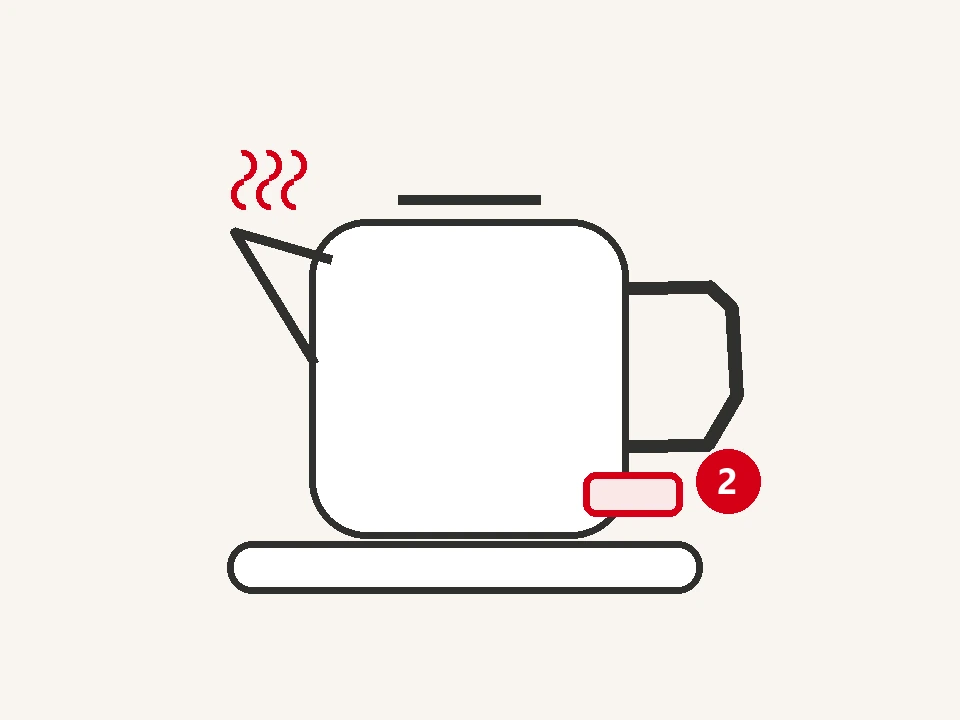
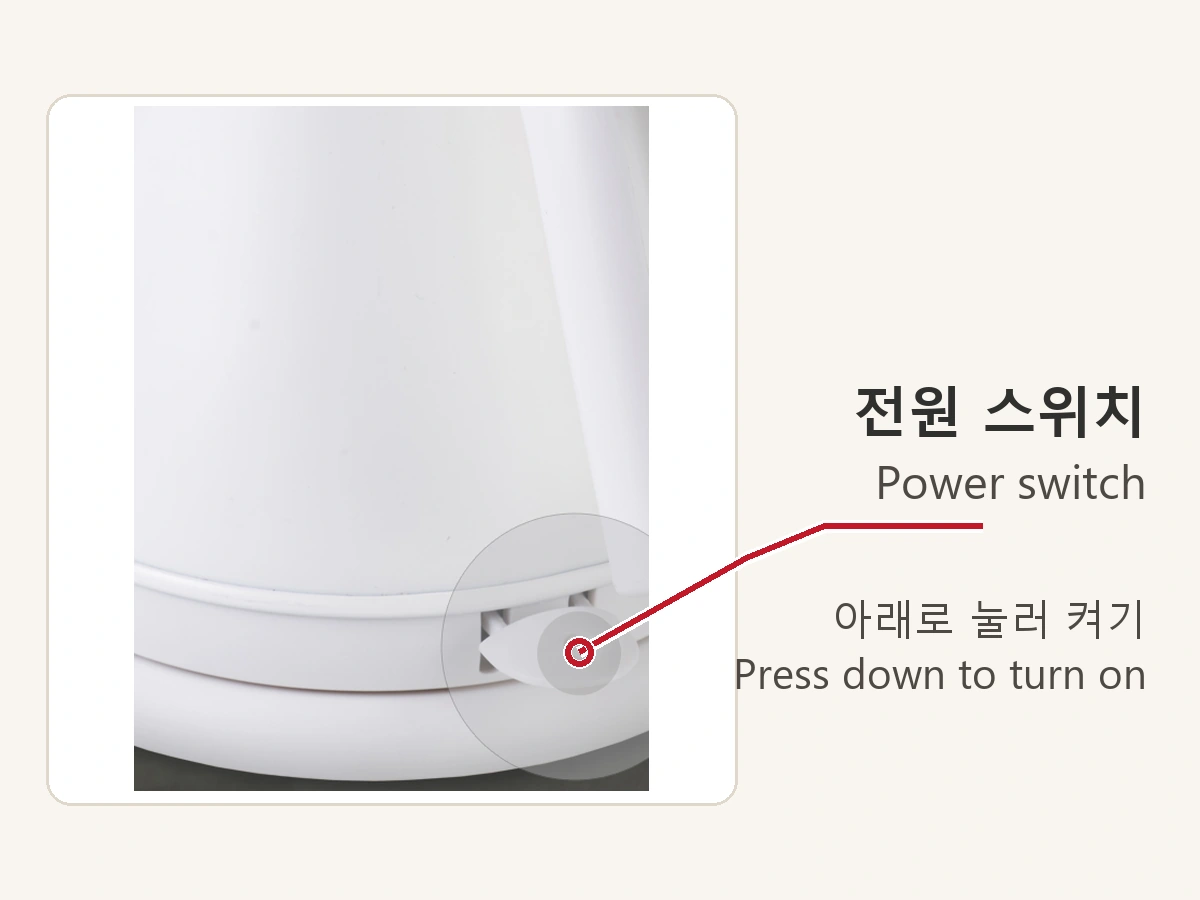
Label air conditioner, hood, speaker and kettle controls

Changed region(s): [[0.0938, 0.0917, 0.9688, 0.8861]]

diff --git a/assets/equipment.js b/assets/equipment.js
@@ -14,7 +14,8 @@ export const applianceItems = [
   {
     id:'cooling', area:'room',
     visuals:[
-      guide('ac',['전원 켜기 → 냉방 선택 → 온도 조절','Power on → Cool mode → Adjust temperature','電源 → 冷房 → 温度調節','开机 → 制冷 → 调节温度','開機 → 冷房 → 調節溫度'])
+      guide('ac-wall',['301호 벽면 조작부 · 전원과 온도','Room 301 wall control · Power and temperature','301号室の壁面操作部・電源と温度','301 号房墙面控制器 · 电源与温度','301 號房壁面控制器 · 電源與溫度']),
+      guide('ac',['삼성 리모컨 DB98-32905B-00 · 전원, 모드, 온도','Samsung remote DB98-32905B-00 · Power, mode and temperature','Samsungリモコン DB98-32905B-00・電源、モード、温度','三星遥控器 DB98-32905B-00 · 电源、模式与温度','三星遙控器 DB98-32905B-00 · 電源、模式與溫度'])
     ],
     title:['객실 에어컨','Room air conditioning','客室のエアコン','客房空调','客房冷氣'],
     photo:{ id:'guide-abode-room-controls', marks:[[6,44]], caption:['301호 실제 사진 · 거울 왼쪽 벽의 삼성 조작부','Room 301 · Samsung wall control to the left of the mirror','301号室の実物写真・鏡の左側のSamsung操作部','301 号房实拍 · 镜子左侧的三星墙面控制器','301 號房實拍 · 鏡子左側的三星壁面控制器'] },
@@ -56,7 +57,7 @@ export const applianceItems = [
   {
     id:'speaker', area:'room',
     visuals:[
-      guide('speaker',['스피커 전원 켜기 → 휴대전화 블루투스 연결','Turn the speaker on → Pair on your phone','電源を入れる → 携帯電話でペアリング','开启音箱 → 在手机上配对','開啟喇叭 → 在手機上配對']),
+      guide('speaker',['스피커 상단 버튼 · 전원, 재생, 모드','Top of the speaker · Power, playback and mode','スピーカー上面・電源、再生、モード','音箱顶部按钮 · 电源、播放与模式','喇叭頂部按鈕 · 電源、播放與模式']),
       guide('speaker-volume',['밤 9시 이후에는 음량을 낮춰 주세요.','Keep the volume low after 9 PM.','21時以降は音量を控えめにしてください。','晚上 9 点后请调低音量。','晚上 9 點後請調低音量。'])
     ],
     title:['블루투스 스피커','Bluetooth speaker','Bluetoothスピーカー','蓝牙音箱','藍牙喇叭'],
@@ -69,13 +70,14 @@ export const applianceItems = [
   {
     id:'cooktop', area:'kitchen',
     visuals:[
-      official('induction','Haatz IH-232S',['전원과 오른쪽 인덕션 화력 + / −','Power and the induction heat controls (+ / −) on the right','電源と右側のIH火力調節（+ / −）','电源与右侧火力调节（+ / −）','電源與右側火力調節（+ / −）'])
+      official('induction','Haatz IH-232S',['전원과 오른쪽 인덕션 화력 + / −','Power and the induction heat controls (+ / −) on the right','電源と右側のIH火力調節（+ / −）','电源与右侧火力调节（+ / −）','電源與右側火力調節（+ / −）']),
+      guide('hood',['301호 주방 후드 · 전면 터치 패널과 풍량 버튼','Room 301 range hood · Front touch panel and fan speed button','301号室のレンジフード・前面タッチパネルと風量ボタン','301 号房抽油烟机 · 正面触控面板与风速按钮','301 號房抽油煙機 · 正面觸控面板與風速按鈕'])
     ],
     title:['인덕션과 주방 후드','Induction cooktop and range hood','IH調理器とレンジフード','电磁炉与抽油烟机','電磁爐與抽油煙機'],
     model:'Haatz IH-232S · SIH-30S',
     photo:{ id:'guide-laundry', marks:[[32,56],[29,27]], caption:['301호 실제 사진 · 싱크대 오른쪽 검은 상판이 인덕션이고, 위의 스테인리스 기기가 후드입니다.','Room 301 · The black cooktop is to the right of the sink, with the stainless-steel hood above.','301号室の実物写真・流しの右の黒い面がIH、上のステンレス製の機器がフードです。','301 号房实拍 · 水槽右边的黑色台面是电磁炉，上方为不锈钢油烟机。','301 號房實拍 · 水槽右側的黑色檯面是電磁爐，上方為不鏽鋼抽油煙機。'] },
     controls:[
-      ['FAN', ['조리하기 전에 상판 위 주방 후드를 켜세요. 인덕션용 냄비나 팬을 화구 가운데에 놓으세요.', 'Turn on the hood above the cooktop before cooking. Centre an induction-compatible pan on the cooking zone.', '調理前にフードを回し、IH対応の鍋を加熱部の中央に置きます。', '先开启上方的抽油烟机，再把电磁炉适用的锅放在炉区中央。', '先開啟上方的抽油煙機，再把電磁爐適用的鍋放在爐區中央。']],
+      ['FAN', ['조리 전에 후드의 팬 모양 버튼을 터치해 풍량을 1~3단으로 조절하세요. 인덕션용 냄비나 팬은 화구 가운데에 놓으세요.', 'Before cooking, tap the fan symbol on the hood to select speed 1, 2 or 3. Centre an induction-compatible pan on the cooking zone.', '調理前にフードのファンマークをタッチし、風量を1〜3段階で調節します。IH対応の鍋は加熱部の中央に置きます。', '烹饪前，触按油烟机上的风扇图标，将风速调至 1 至 3 档。将电磁炉适用的锅放在炉区中央。', '烹調前，觸按抽油煙機上的風扇圖示，將風速調至 1 至 3 檔。將電磁爐適用的鍋放在爐區中央。']],
       ['⏻ → INDUCTION + / −', ['전원 버튼을 약 1초간 누른 뒤 오른쪽 Induction + / −로 화력을 조절하세요. 왼쪽 Timer는 작동 시간 설정에 사용합니다.', 'Hold Power for about one second, then use the Induction + / − buttons on the right to adjust the heat. The Timer on the left sets the cooking time.', '電源を約1秒押し、右側のInduction + / −で火力を調節します。左側のTimerは時間設定用です。', '按住电源键约 1 秒，再用右侧 Induction + / − 调节火力。左侧 Timer 用于设置时间。', '按住電源鍵約 1 秒，再用右側 Induction + / − 調整火力。左側 Timer 用於設定時間。']],
       ['H', ['조리를 마치면 전원을 끄세요. H가 표시되면 상판이 아직 뜨거우니 손대지 마세요.', 'Switch off after cooking. The H indicator means the glass is still hot. Keep your hands off it.', '調理後は電源を切ります。Hの表示中は天板が熱いため触れないでください。', '烹饪后请关闭电源。显示 H 表示台面仍热，请勿触摸。', '烹調後請關閉電源。顯示 H 代表檯面仍熱，請勿觸摸。']],
     ],
@@ -124,14 +126,14 @@ export const applianceItems = [
   {
     id:'kettle', area:'kitchen',
     visuals:[
-      guide('kettle-fill',['물을 MAX 선 아래까지 채우세요.','Fill with water below the MAX line.','MAX線を超えないよう水を入れます。','加水至 MAX 线以下。','加水至 MAX 線以下。']),
-      guide('kettle-switch',['받침에 올리고 전원을 켜세요.','Set the kettle on its base and switch it on.','台に戻してスイッチを入れます。','将水壶放回底座再开机。','將水壺放回底座再開機。'])
+      guide('kettle-switch',['손잡이 아래 전원 스위치를 아래로 누르세요.','Press down on the power switch below the handle.','持ち手の下にある電源スイッチを押し下げます。','向下按手柄下方的电源开关。','將手把下方的電源開關往下按。']),
+      guide('kettle-fill',['물을 MAX 선 아래까지 채우세요.','Fill with water below the MAX line.','MAX線を超えないよう水を入れます。','加水至 MAX 线以下。','加水至 MAX 線以下。'])
     ],
     title:['전기포트','Electric kettle','電気ケトル','电热水壶','電熱水壺'],
     model:'OLLY OLK05B / OLK05W',
     controls:[
       ['WATER · MAX', ['포트를 받침에서 들어 물만 넣고 MAX 표시를 넘기지 마세요. 뚜껑을 닫은 뒤 받침에 올리세요.', 'Lift the kettle off the base and fill with water only, below MAX. Close the lid and set it back on the base.', 'ケトルを台から外し、MAXを超えないよう水だけを入れます。ふたを閉めて台に戻します。', '把水壶从底座取下，只加水且不得超过 MAX 线。合盖后放回底座。', '將水壺從底座取下，只加水且勿超過 MAX 線。蓋好後放回底座。']],
-      [power, ['전원 스위치를 켜세요. 끓인 뒤에는 손잡이로 들고, 주둥이의 증기에 주의하세요.', 'Switch the kettle on. When pouring, use the handle and keep clear of steam from the spout.', 'スイッチを入れます。注ぐ際は持ち手を使い、注ぎ口の蒸気に注意してください。', '打开电源开关。倒水时握住把手，小心壶嘴蒸气。', '開啟電源開關。倒水時握住把手，小心壺嘴蒸氣。']],
+      [power, ['손잡이 아래의 스위치를 아래로 눌러 켜세요. 끓인 뒤에는 손잡이로 들고, 주둥이의 증기에 주의하세요.', 'Press the switch below the handle down to turn it on. When pouring, use the handle and keep clear of steam from the spout.', '持ち手の下のスイッチを押し下げて電源を入れます。注ぐ際は持ち手を使い、注ぎ口の蒸気に注意してください。', '向下按手柄下方的开关。倒水时握住把手，小心壶嘴蒸气。', '將手把下方的開關往下按。倒水時握住把手，小心壺嘴蒸氣。']],
     ],
   },
   {

diff --git a/assets/equipment-labels.js b/assets/equipment-labels.js
@@ -1,5 +1,10 @@
 // Text alternatives for diagrams that carry their labels in the image.
 export const directPanelLabels = {
+  'device-ac-wall': '301호 벽면 조작부 (Room 301 wall control). 위쪽 버튼 전원 (Power), 그 아래 두 버튼 온도 + / − (Temp. + / −)',
+  'device-ac': '왼쪽 전원 (Power), 오른쪽 모드 (Mode)에서 냉방 선택 (Select Cool), 전원 아래 온도 + / − (Temp. + / −)',
+  'device-speaker': '왼쪽부터 이전 곡 (Previous track), 전원 · 재생/일시정지 (Power · Play/Pause), 다음 곡 (Next track), 모드 (Mode)',
+  'device-hood': '후드 전면 터치 패널 (Front touch panel). 팬 모양의 풍량 버튼 (Fan speed), 오른쪽 숫자는 풍량 표시 1–3 (Speed display 1–3)',
+  'device-kettle-switch': '손잡이 아래 전원 스위치 (Power switch under the handle). 아래로 눌러 켜기 (Press down to turn on)',
   'device-official-rinnai-rc610': '3층 (3F). 전원 (Power), 난방 (Heating), 난방온도 + / - (Heating temp. + / -), 온수 (Hot water)',
   'device-official-rinnai-r324': '4층 (4F). 전원 (Power), 난방 (Heating dial), 온수 (Hot water)',
   'device-official-maxell': '본체 상태등 (Status light). 초록색이 켜지면 준비 완료 (Ready when solid green). 리모컨 전원 (STANDBY/ON)',
